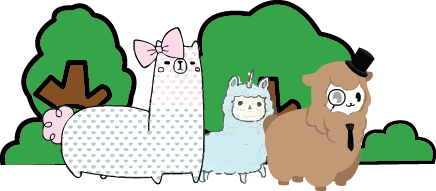
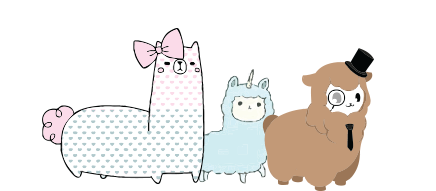
cartoon footer index

diff --git a/index.html b/index.html
@@ -132,7 +132,7 @@
 
    <footer>
      <div class="menu_footer_cartoon_bg">
-     <div class="menu_footer_cartoon"><img src="images/menu_footer_cartoon.png"></div>
+     <div class="menu_footer_cartoon"><img src="images/menu_footer_cartoon_index.png"></div>
      </div>
     <div class="menu_footer_red">
         <div class="menu_footer">
